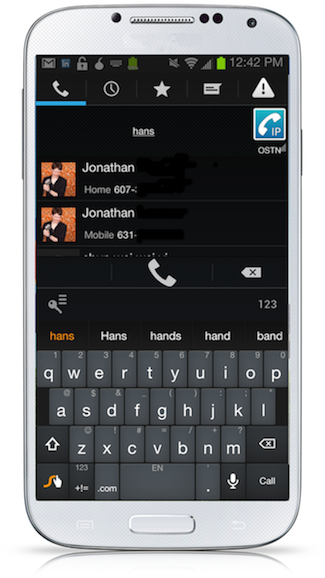
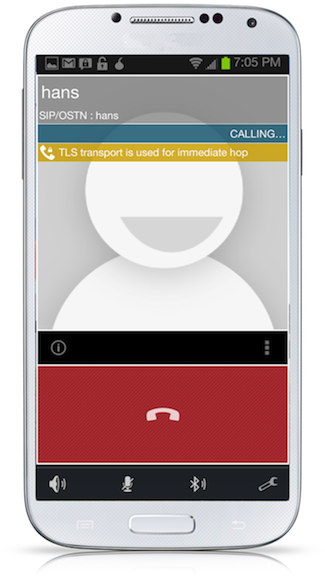
Updated

diff --git a/index.html b/index.html
@@ -60,7 +60,7 @@ Thanks to Sam Vermette for the inspiration - http://samvermette.com/
 	}
 	
 	
-	#device1, #devicef1, #devicef2, #devicef3, #devicef4, #device2, #device3, #device4, #device5, #device6, #device7, #device8, #device9, #device10, #device11, #device12, #device13, #device14, #device15, #device16, #device17, #device18, #device19, #device20 {
+	#device1, #devicef1, #devicef2, #devicef3, #devicef4, #device2, #device3, #device4, #device5, #device6, #device7, #device8, #device9, #device10, #device11, #device12, #device13, #device14, #device15, #device16, #device17, #device18, #device19, #device20, #device21, #device22 {
 		width: 401px;
 		height: 601px;
 		position: absolute;
@@ -157,6 +157,12 @@ Thanks to Sam Vermette for the inspiration - http://samvermette.com/
 	#device20 {
 		background: url('galaxy20.png') no-repeat bottom;
 	}
+	#device21 {
+		background: url('galaxy21.png') no-repeat bottom;
+	}
+	#device22 {
+		background: url('galaxy22.png') no-repeat bottom;
+	}
 	
 	h1 {
 		font-family: "HelveticaNeue-Light", "Helvetica";
@@ -224,7 +230,7 @@ Thanks to Sam Vermette for the inspiration - http://samvermette.com/
 	
 	function reset() {
 		document.getElementById('window').removeAttribute("class");
-		document.getElementById('device20').setAttribute("style", "visibility:hidden");																																								
+		document.getElementById('device22').setAttribute("style", "visibility:hidden");																																								
 		document.getElementById('device9').setAttribute("style", "visibility:hidden");
 		document.getElementById('devicef4').setAttribute("style", "visibility:hidden");
 		document.getElementById('step18').setAttribute("class", "away");
@@ -243,7 +249,7 @@ Thanks to Sam Vermette for the inspiration - http://samvermette.com/
 	}
 	
 	function stepf1() {
-		document.getElementById('step1').setAttribute("class", "hidden");
+		document.getElementById('step8').setAttribute("class", "hidden");
 		document.getElementById('stepf1').setAttribute("class", "visible");
 		document.getElementById('devicef1').setAttribute("style", "visibility:visible");
 	}
@@ -301,7 +307,6 @@ Thanks to Sam Vermette for the inspiration - http://samvermette.com/
 		document.getElementById('step6').setAttribute("class", "visible");
 		document.getElementById('device4').setAttribute("style", "visibility:hidden");
 		document.getElementById('device5').setAttribute("style", "visibility:visible");
-				setTimeout(step6a, 1200);
 	}	
 	
 	function step6a() {
@@ -329,35 +334,36 @@ Thanks to Sam Vermette for the inspiration - http://samvermette.com/
 	}	
 	
 	function step7() {
-		document.getElementById('step6c').setAttribute("class", "hidden");
+		document.getElementById('step6').setAttribute("class", "hidden");
 		document.getElementById('step7').setAttribute("class", "visible");
-		document.getElementById('device8').setAttribute("style", "visibility:hidden");
-		document.getElementById('device9').setAttribute("style", "visibility:visible");
+		document.getElementById('device5').setAttribute("style", "visibility:hidden");
+		document.getElementById('device6').setAttribute("style", "visibility:visible");
 	}	
 	function step8() {
 		document.getElementById('step7').setAttribute("class", "hidden");
 		document.getElementById('step8').setAttribute("class", "visible");
-		document.getElementById('device9').setAttribute("style", "visibility:hidden");
-		document.getElementById('device10').setAttribute("style", "visibility:visible");
+		document.getElementById('device6').setAttribute("style", "visibility:hidden");
+		document.getElementById('device7').setAttribute("style", "visibility:visible");
 	}		
 	function step9() {
 		document.getElementById('step8').setAttribute("class", "hidden");
 		document.getElementById('step9').setAttribute("class", "visible");
-		document.getElementById('device10').setAttribute("style", "visibility:hidden");
-		document.getElementById('device11').setAttribute("style", "visibility:visible");
-				setTimeout(step10, 3000);
+		document.getElementById('device7').setAttribute("style", "visibility:hidden");
+		document.getElementById('device8').setAttribute("style", "visibility:visible");
 	}	
 	function step10() {
 		document.getElementById('step9').setAttribute("class", "hidden");
+				document.getElementById('stepf4').setAttribute("class", "hidden");
 		document.getElementById('step10').setAttribute("class", "visible");
-		document.getElementById('device11').setAttribute("style", "visibility:hidden");
-		document.getElementById('device12').setAttribute("style", "visibility:visible");
+		document.getElementById('device8').setAttribute("style", "visibility:hidden");
+				document.getElementById('devicef4').setAttribute("style", "visibility:hidden");
+		document.getElementById('device9').setAttribute("style", "visibility:visible");
 	}
 	function step11() {
 		document.getElementById('step10').setAttribute("class", "hidden");
 		document.getElementById('step11').setAttribute("class", "visible");
-		document.getElementById('device12').setAttribute("style", "visibility:hidden");
-		document.getElementById('device13').setAttribute("style", "visibility:visible");
+		document.getElementById('device9').setAttribute("style", "visibility:hidden");
+		document.getElementById('device10').setAttribute("style", "visibility:visible");
 	}
 	function step12() {
 		document.getElementById('step11').setAttribute("class", "hidden");
@@ -409,25 +415,29 @@ Thanks to Sam Vermette for the inspiration - http://samvermette.com/
 
 <body onload="setTimeout(step0, 0);">
 
-<h1>So you want to encrypt your calls on Android?</h1>
+<h1>So you want to secure your calls on Android?</h1>
 
-<h2 id="stepf4">Go back to the main screen and you should see the Guardian Project apps. Click on <i>Gibberbot</i> to install. <a href="javascript:step4()">Got it.</a></h2>
+<h2 id="stepf4">Go back to the main screen and you should see the Guardian Project apps. Click on <i>CSipSimple</i> to install. <a href="javascript:step10()">Got it.</a></h2>
 <h2 id="stepf3">Enter: <i>https://guardianproject.info/repo/</i> (don't forget the s!) <br><a href="javascript:stepf4()">Done. Where are the apps?</a></h2>
 <h2 id="stepf2">Run the app and navigate over to Menu > Manage Repos > New Repository <a href="javascript:stepf3()">Cool. What do I enter?</a></h2>
 <h2 id="stepf1">There's an alternative app store. Install <i>F-droid</i> by entering <br><i>https://f-droid.org/FDroid.apk</i> into a web browser. <a href="javascript:stepf2()">Done. Next?</a></h2>
-<h2 id="step18">You're awesome! <a href="javascript:step1()">Play it again?</a><br>· For more info, visit our site: <a href="http://guardianproject.info" target="_blank">The Guardian Project</a> · </h2>
-<h2 id="step17">10. The bar <SPAN style="BACKGROUND-COLOR: limegreen"> turned green </SPAN>! We're secure. <a href="javascript:step18()"> Let's send him an encrypted message.</a></h2>
-<h2 id="step16">Mark got the right answer! <a href="javascript:step17()">Well then, let's confirm it's really him.</a></h2>
-<h2 id="step15">Got it! I checked on a trusted channel: <i>Spotify</i>. <a href="javascript:step16()">Send the secret.</a></h2>
-<h2 id="step14">I'm thinking of a question...</h2>
-<h2 id="step13">I can see Mark's fingerprint. Now let me send him a message that only you would know the answer to.</h2>
-<h2 id="step12">10. Is that really Mark? Pull up the verify option. <a href="javascript:step13()">Let's click it to make sure.</a></h2>
-<h2 id="step11">9. Let's send him an unencrypted message. <a href="javascript:step12()">Send "Oh hai!"</a></h2>
-<h2 id="step10">8. The bar <SPAN style="BACKGROUND-COLOR: yellow"> turned yellow </SPAN>! Mark got our chat & turned on encryption. <a href="javascript:step11()">Let's verify it's really Mark.</a></h2>
-<h2 id="step9">9. Search for <i>CSipSimple</i><a href="javascript:stepf1()">Got it!</a></h2>
-<h2 id="step8">8. Open the <i>Google Play Store</i>. <a href="javascript:step9()">Easy, next?</a><br><a href="javascript:stepf1()">It's blocked. Help!</a></h2>
+<h2 id="step22">You're awesome! <a href="javascript:step1()">Play it again?</a><br>· For more info, visit our site: <a href="http://guardianproject.info" target="_blank">The Guardian Project</a> · </h2>
+<h2 id="step21">The status should say "ZRTP - Verified", showing you that you're secure. <a href="javascript:step22()">That's what I see.</a></h2>
+<h2 id="step20">Then a confirmation code will pop up. Say it to them. If you both have the same code, you're secure</h2>
+<h2 id="step19">First it'll dial.</h2>
+<h2 id="step18">18. Dial 9-1-9-6 to do an echo test. <a href="javascript:step17()">Dialing...</a></h2>
+<h2 id="step17">17. To confirm it works, you'll see OSTN <SPAN style="BACKGROUND-COLOR: limegreen"> turn green </SPAN>. We're registered! <a href="javascript:step18()"> Let's test it.</a></h2>
+<h2 id="step16">16. We emailed you the account info. <a href="javascript:step17()">I just entered that info.</a></h2>
+<h2 id="step15">15. You'll find empty account info. <a href="javascript:step16()">Let's fill it in!</a></h2>
+<h2 id="step14">14. Scroll down and click the OSTN wizard under Expert<a href="javascript:step15()">I feel like a pro.</a></h2>
+<h2 id="step13">13. Add an Open Secure Telephony Network (OSTN) expert account. <a href="javascript:step14()">Pressed and I'm there.</a></h2>
+<h2 id="step12">12. Press the key icon to add an account. <a href="javascript:step13()">Pressed and I'm there.</a></h2>
+<h2 id="step11">11. Open up <i>CSipSimple</i>. <a href="javascript:step12()">Done.</a></h2>
+<h2 id="step10">10. Install it. <a href="javascript:step11()">That was easy.</a></h2>
+<h2 id="step9">9. Search for <i>CSipSimple</i><a href="javascript:step10()">Got it!</a></h2>
+<h2 id="step8">8. Open the <i>Google Play Store</i>. <a href="javascript:step9()">Easy, next?</a></h2>
 <h2 id="step7">7. Download a calling app for your <i>Ostel</i> service. On <i>Android</i>, we recommend <i>CSipSimple</i>. <br><a href="javascript:step8()">Where do I get it?</a></h2>
-<h2 id="step6">6. Welcome to <i>Ostel</i>! Your info is below and in your inbox. <a href="javascript:step7()">Where do I enter that info?</a></h2>
+<h2 id="step6">6. Welcome to <i>Ostel</i>! Your info is below and in your inbox. <a href="javascript:step7()"><br>Where do I enter that info?</a></h2>
 <h2 id="step5">5. Create a password. <a href="javascript:step6()">I made it super secure.</a></h2>
 <h2 id="step4">4. Choose a name so friends can find you. <a href="javascript:step5()">I picked a cool one!</a></h2>
 <h2 id="step3">3. Scroll to the bottom and register an account. <a href="javascript:step4()">Sounds good.</a></h2>
@@ -460,6 +470,8 @@ Thanks to Sam Vermette for the inspiration - http://samvermette.com/
 	<div id="device18"></div>
 	<div id="device19"></div>
 	<div id="device20"></div>
+	<div id="device21"></div>
+	<div id="device22"></div>
 </div>
 
 </body>
